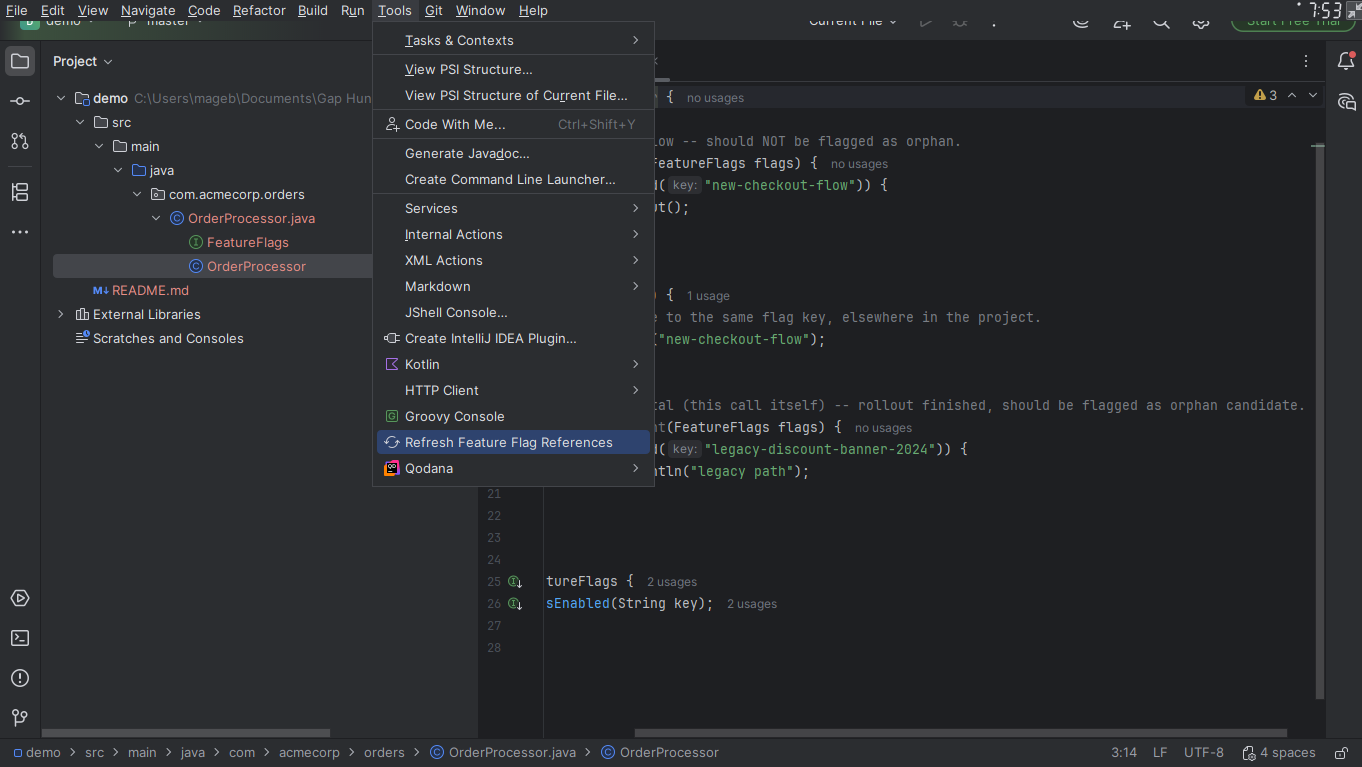
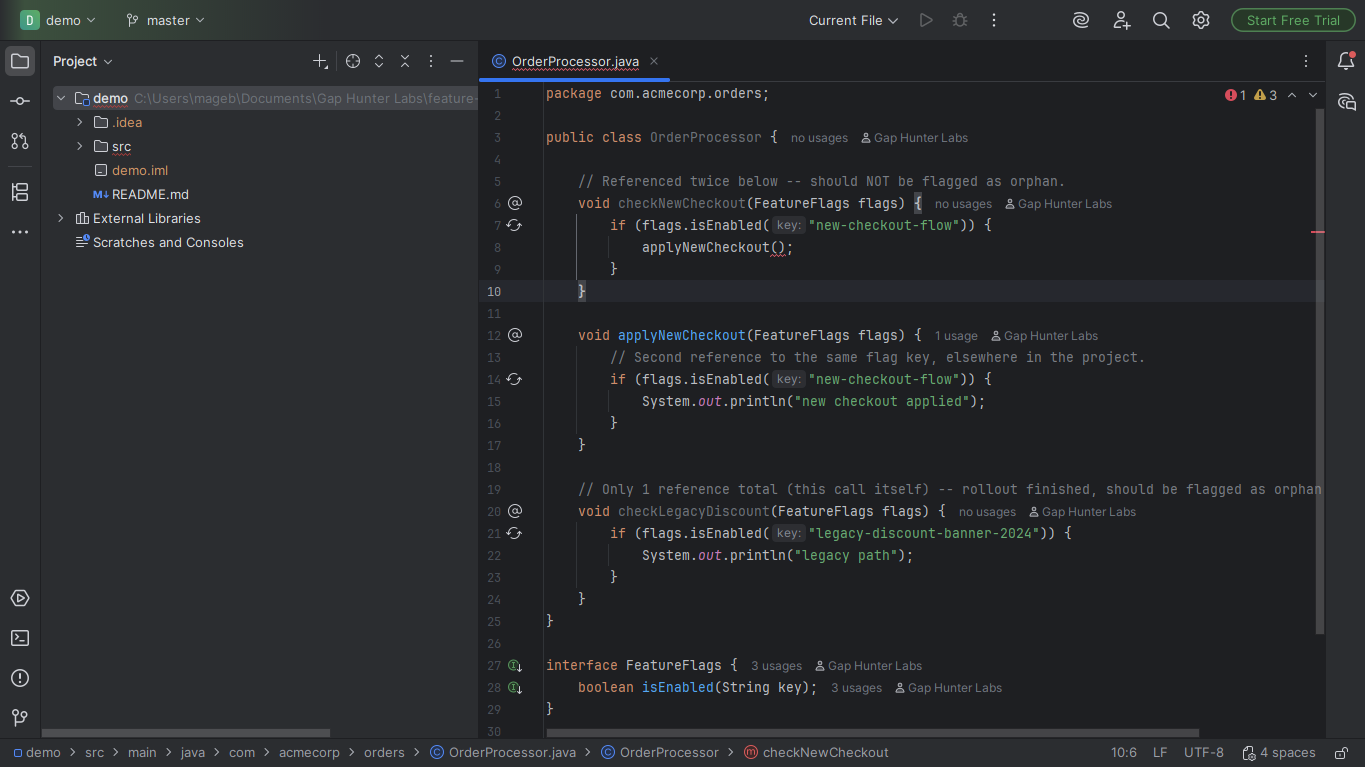
Add review/star CTA (0.1.1)
Standard rollout of the ReviewPrompt.kt mechanism (CONSTITUTION.md
§7.2) to a plugin built before it became mandatory (2026-08-24). Only
the orphan-candidate verdict counts as a real finding -- the
informational IN_USE/NOT_YET_SCANNED icons never trigger it, since
they show up on ordinary, healthy code too. After 10 distinct orphan
findings, a one-time notification asks whether to rate the plugin on
Marketplace, with a permanent 'Don't ask again' option.

Also includes an existing screenshot update from 2026-08-19 that was
never committed, plus 2 additional screenshots.

verifyPlugin 6/6 Compatible (3 IDEs flag 1-2 pre-existing deprecated
API usages in RefreshFlagReferencesAction, unrelated to this change,
not addressed here).

diff --git a/src/main/kotlin/dev/gaphunter/featureflagreferencecompanion/review/ReviewPrompt.kt b/src/main/kotlin/dev/gaphunter/featureflagreferencecompanion/review/ReviewPrompt.kt
@@ -1,0 +1,105 @@
+package dev.gaphunter.featureflagreferencecompanion.review
+
+import com.intellij.ide.BrowserUtil
+import com.intellij.ide.util.PropertiesComponent
+import com.intellij.notification.NotificationAction
+import com.intellij.notification.NotificationGroupManager
+import com.intellij.notification.NotificationType
+import com.intellij.openapi.project.Project
+import com.intellij.openapi.util.IconLoader
+
+/**
+ * Asks the user to rate the plugin on Marketplace, once, after the
+ * plugin's own detector has flagged a real number of *distinct*
+ * problems -- never on install, never on a timer, and never inflated
+ * by the platform re-running the same inspection/line-marker pass over
+ * an unchanged file (both `LocalInspectionTool.checkFile` and
+ * `LineMarkerProviderDescriptor.collectSlowLineMarkers` fire on every
+ * background highlight pass, not just on a real edit). [recordHit]
+ * takes a small stable key per finding (e.g. `"$filePath:$lineNumber"`)
+ * and only counts it the first time that exact key is ever seen, so
+ * re-highlighting the same file repeatedly doesn't move the counter.
+ *
+ * Same "earn the ask" principle as other well-regarded plugins; never
+ * re-asks once the user has either rated or dismissed it.
+ *
+ * Persisted via [PropertiesComponent] at the application level (not
+ * per-project) -- how many distinct problems this plugin has flagged
+ * isn't tied to any one project, and neither is whether the user
+ * already answered.
+ */
+object ReviewPrompt {
+
+    /** How many distinct real findings before the prompt shows once. */
+    private const val HITS_BEFORE_PROMPT = 10
+
+    /** Caps how many dedupe keys are retained -- well past HITS_BEFORE_PROMPT, just a sane upper bound. */
+    private const val MAX_TRACKED_KEYS = 500
+
+    private const val KEY_SEEN_FINDINGS = "dev.gaphunter.featureflagreferencecompanion.review.seenFindings"
+    private const val KEY_ANSWERED = "dev.gaphunter.featureflagreferencecompanion.review.answered"
+
+    private const val NOTIFICATION_GROUP_ID = "Feature Flag Reference Companion"
+
+    // TODO(post-first-publish): Marketplace only assigns a numeric plugin
+    // ID on the first manual submit (queued, see demo/README.md) -- until
+    // then this points at the vendor page so "Rate on Marketplace" still
+    // goes somewhere real instead of a 404. Update to
+    // https://plugins.jetbrains.com/plugin/<id>-feature-flag-reference-companion/reviews once the
+    // real ID is known (recorded in the same place as the other
+    // post-publish follow-ups).
+    private const val MARKETPLACE_URL = "https://plugins.jetbrains.com/vendor/gap-hunter-labs"
+
+    /**
+     * Call this from the real detection code path once per distinct
+     * real finding (e.g. once per problem/line-marker actually
+     * produced), passing a key that's stable for that same finding
+     * across re-highlighting the same unchanged file (a file path +
+     * line number is enough -- doesn't need to be globally unique or
+     * survive the finding moving to a different line). Safe to call on
+     * any thread.
+     */
+    fun recordHit(project: Project?, dedupeKey: String) {
+        val properties = PropertiesComponent.getInstance()
+        if (properties.getBoolean(KEY_ANSWERED)) return
+
+        val seen = properties.getList(KEY_SEEN_FINDINGS)?.toMutableSet() ?: mutableSetOf()
+        if (!seen.add(dedupeKey)) return // already counted this exact finding
+
+        if (seen.size > MAX_TRACKED_KEYS) {
+            // Drop to just the count once the tracked set gets large --
+            // avoids unbounded growth in a huge project; the milestone
+            // has long since passed by MAX_TRACKED_KEYS anyway.
+            properties.unsetValue(KEY_SEEN_FINDINGS)
+        } else {
+            properties.setList(KEY_SEEN_FINDINGS, seen)
+        }
+
+        if (seen.size == HITS_BEFORE_PROMPT) {
+            showPrompt(project)
+        }
+    }
+
+    private fun showPrompt(project: Project?) {
+        val properties = PropertiesComponent.getInstance()
+
+        val notification = NotificationGroupManager.getInstance()
+            .getNotificationGroup(NOTIFICATION_GROUP_ID)
+            .createNotification(
+                "Feature Flag Reference Companion",
+                "If this plugin has been useful, a rating on the Marketplace helps other developers find it.",
+                NotificationType.INFORMATION,
+            )
+        notification.setIcon(IconLoader.getIcon("/META-INF/pluginIcon.svg", ReviewPrompt::class.java))
+
+        notification.addAction(NotificationAction.createSimpleExpiring("Rate on Marketplace") {
+            properties.setValue(KEY_ANSWERED, true)
+            BrowserUtil.browse(MARKETPLACE_URL)
+        })
+        notification.addAction(NotificationAction.createSimpleExpiring("Don't ask again") {
+            properties.setValue(KEY_ANSWERED, true)
+        })
+
+        notification.notify(project)
+    }
+}

diff --git a/src/main/kotlin/dev/gaphunter/featureflagreferencecompanion/gutter/FlagReferenceLineMarkerProvider.kt b/src/main/kotlin/dev/gaphunter/featureflagreferencecompanion/gutter/FlagReferenceLineMarkerProvider.kt
@@ -13,6 +13,7 @@ import dev.gaphunter.featureflagreferencecompanion.index.FlagReferenceIndex
 import dev.gaphunter.featureflagreferencecompanion.model.FlagCheckCall
 import dev.gaphunter.featureflagreferencecompanion.model.FlagReferenceResult
 import dev.gaphunter.featureflagreferencecompanion.model.FlagReferenceVerdict
+import dev.gaphunter.featureflagreferencecompanion.review.ReviewPrompt
 import org.jetbrains.kotlin.psi.KtStringTemplateExpression
 
 /**
@@ -61,6 +62,16 @@ class FlagReferenceLineMarkerProvider : LineMarkerProviderDescriptor(), DumbAwar
             val leaf = leafAnchorOf(element) ?: continue
             val verdictResult = if (index.hasRunAtLeastOnce()) index.resultFor(call) else null
             result.add(buildMarker(leaf, element.textRange, call, verdictResult))
+
+            // Only an orphan-candidate verdict is a real, actionable
+            // finding -- IN_USE/NOT_YET_SCANNED just show informational
+            // status for every flag check site, which would inflate the
+            // CTA counter on ordinary, healthy code.
+            if (verdictResult?.verdict == FlagReferenceVerdict.ORPHAN_CANDIDATE) {
+                val path = file.virtualFile?.path ?: continue
+                val lineNumber = file.viewProvider.document?.getLineNumber(leaf.textRange.startOffset) ?: -1
+                ReviewPrompt.recordHit(project, "$path:$lineNumber:${call.key}")
+            }
         }
     }
 

diff --git a/CHANGELOG.md b/CHANGELOG.md
@@ -4,6 +4,17 @@
 
 ## [Unreleased]
 
+## [0.1.1]
+
+### Added
+
+- Review/star CTA: after 10 distinct orphan-candidate findings (never
+  counted for the informational IN_USE/NOT_YET_SCANNED icons, only
+  real actionable ones), a one-time notification asks whether to rate
+  the plugin on Marketplace, with a permanent "Don't ask again"
+  option. Standard mechanism used catalog-wide since 2026-08-24
+  (`CONSTITUTION.md` §7.2), rolled out to this plugin now.
+
 ## [0.1.0]
 
 ### Added
@@ -28,5 +39,6 @@
 - 100% static PSI analysis -- no network call, no provider connection,
   no telemetry.
 
-[Unreleased]: https://github.com/GapHunterLabs/feature-flag-reference-companion/compare/0.1.0...HEAD
+[Unreleased]: https://github.com/GapHunterLabs/feature-flag-reference-companion/compare/0.1.1...HEAD
+[0.1.1]: https://github.com/GapHunterLabs/feature-flag-reference-companion/compare/0.1.0...0.1.1
 [0.1.0]: https://github.com/GapHunterLabs/feature-flag-reference-companion/commits/0.1.0
